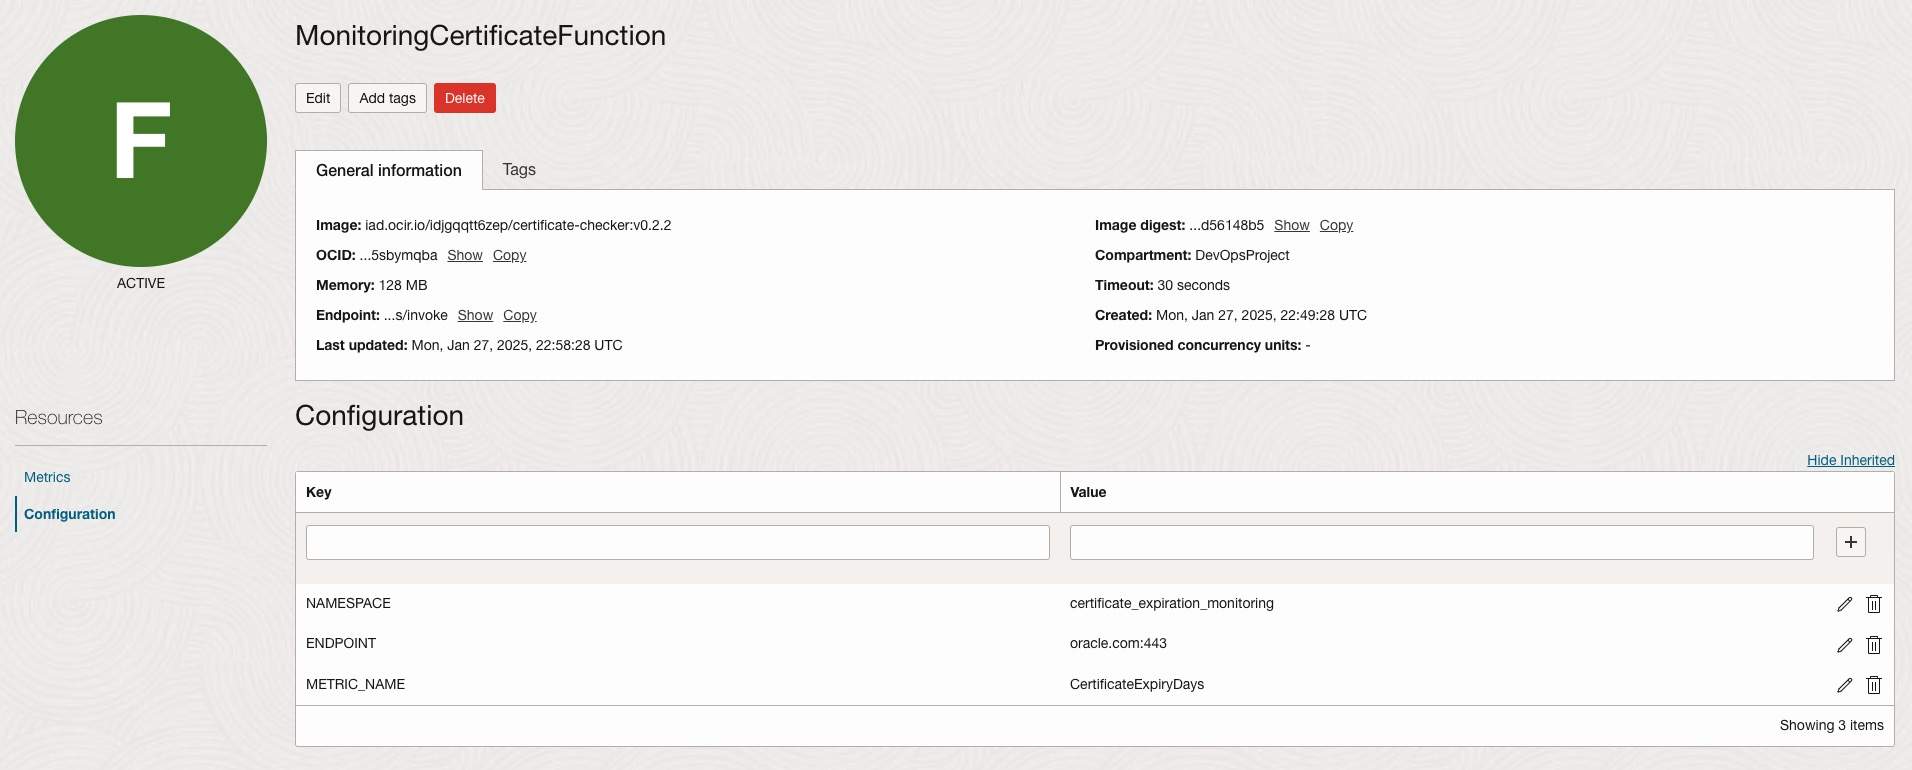
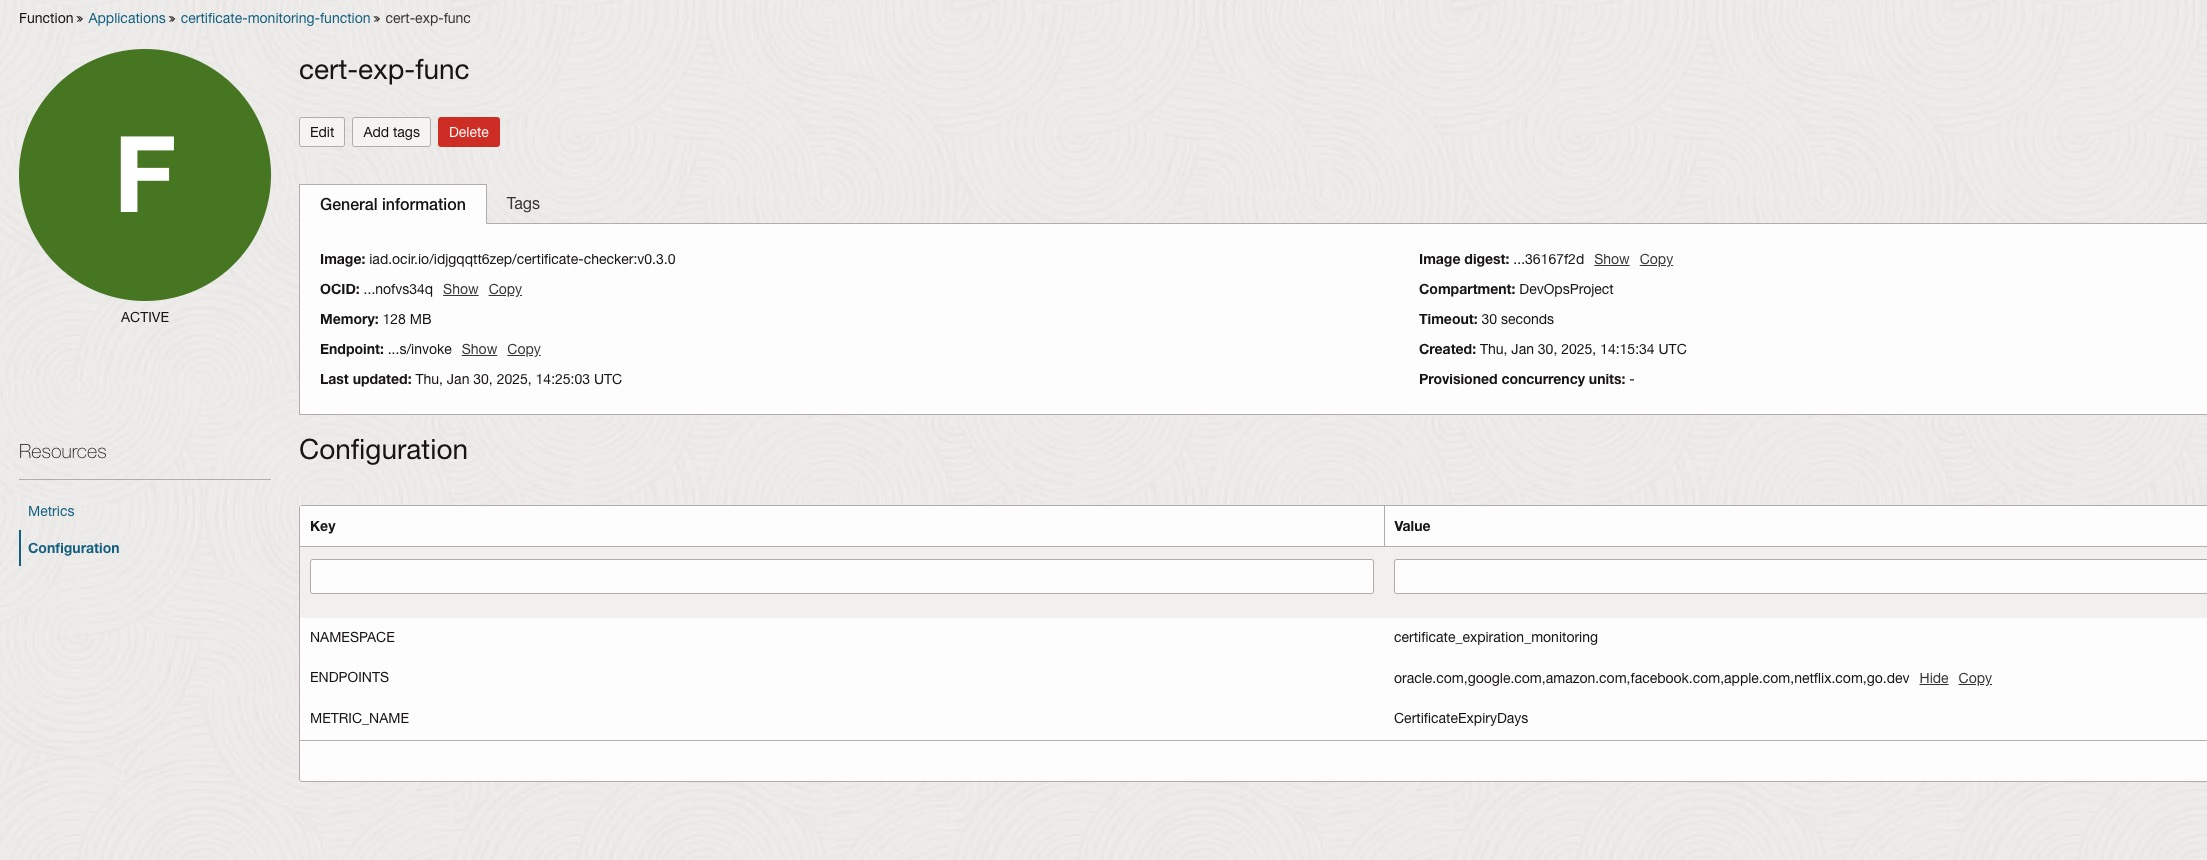
Add TLS dialing timeout and implement goroutines for concurrent endpoint processing

diff --git a/main.go b/main.go
@@ -18,63 +18,57 @@ import (
 	"time"
 )
 
-// getCompartmentID retrieves the OCI Compartment ID associated with the current Function context.
-func getCompartmentID(ctx context.Context) (string, error) {
-	provider, err := auth.ResourcePrincipalConfigurationProvider()
-	if err != nil {
-		return "", fmt.Errorf("failed to create Resource Principal provider: %v", err)
-	}
-	functionsClient, err := functions.NewFunctionsManagementClientWithConfigurationProvider(provider)
-	if err != nil {
-		return "", fmt.Errorf("failed to create Functions Management client: %v", err)
-	}
-
-	functionOCID := os.Getenv("FN_FN_ID")
-	if functionOCID == "" {
-		return "", fmt.Errorf("FN_FN_ID is not set in the environment")
-	}
-
-	request := functions.GetFunctionRequest{
-		FunctionId: &functionOCID,
-	}
-	response, err := functionsClient.GetFunction(ctx, request)
-	if err != nil {
-		return "", fmt.Errorf("failed to get function details: %v", err)
-	}
-
-	return *response.CompartmentId, nil
+type Result struct {
+	Endpoint      string
+	DaysRemaining int
+	Err           error
 }
 
-// GetDaysRemaining calculates the days remaining for an endpoint until its TLS certificate expires.
-func GetDaysRemaining(ctx context.Context, endpoint string) (int, error) {
-	parts := strings.Split(endpoint, ":")
-	if len(parts) != 2 {
-		return 0, fmt.Errorf("invalid endpoint format, expected hostname:port")
-	}
+// GetDaysRemaining calculates the days remaining for an endpoint until its TLS certificate expires using a Result struct.
+func GetDaysRemaining(ctx context.Context, endpoint string) Result {
+	resultChan := make(chan Result, 1)
 
-	// TLS Dial with timeout
-	conn, err := tls.DialWithDialer(&net.Dialer{
-		Timeout: 5 * time.Second, // Timeout for connection
-	}, "tcp", endpoint, &tls.Config{
-		InsecureSkipVerify: true,
-	})
-	if err != nil {
-		return 0, fmt.Errorf("failed to connect to '%s': %v", endpoint, err)
-	}
-	defer conn.Close()
+	// Perform TLS operations in a Goroutine
+	go func() {
+		parts := strings.Split(endpoint, ":")
+		if len(parts) != 2 {
+			resultChan <- Result{Endpoint: endpoint, Err: fmt.Errorf("invalid endpoint format, expected hostname:port")}
+			return
+		}
 
-	certs := conn.ConnectionState().PeerCertificates
-	if len(certs) == 0 {
-		return 0, fmt.Errorf("no certificate found for endpoint '%s'", endpoint)
-	}
-	cert := certs[0]
+		conn, err := tls.DialWithDialer(&net.Dialer{
+			Timeout: 10 * time.Second, // add a TLS dial timeout
+		}, "tcp", endpoint, &tls.Config{
+			InsecureSkipVerify: true,
+		})
+		if err != nil {
+			resultChan <- Result{Endpoint: endpoint, Err: fmt.Errorf("failed to connect to '%s': %v", endpoint, err)}
+			return
+		}
+		defer conn.Close()
 
-	// Calculate days remaining until certificate expiration
-	daysRemaining := int(time.Until(cert.NotAfter).Hours() / 24)
-	return daysRemaining, nil
+		certs := conn.ConnectionState().PeerCertificates
+		if len(certs) == 0 {
+			resultChan <- Result{Endpoint: endpoint, Err: fmt.Errorf("no certificate found for endpoint '%s'", endpoint)}
+			return
+		}
+
+		cert := certs[0]
+		daysRemaining := int(time.Until(cert.NotAfter).Hours() / 24)
+		resultChan <- Result{Endpoint: endpoint, DaysRemaining: daysRemaining}
+	}()
+
+	select {
+	case <-ctx.Done():
+		return Result{
+			Endpoint: endpoint,
+			Err:      fmt.Errorf("timeout while processing endpoint '%s'", endpoint),
+		}
+	case result := <-resultChan:
+		return result
+	}
 }
 
-// createMonitoringClient initializes and returns an OCI MonitoringClient using a Resource Principal configuration provider.
 func createMonitoringClient() (monitoring.MonitoringClient, error) {
 	provider, err := auth.ResourcePrincipalConfigurationProvider()
 	if err != nil {
@@ -90,7 +84,6 @@ func createMonitoringClient() (monitoring.MonitoringClient, error) {
 	return client, nil
 }
 
-// publishMetricData sends metric data to the OCI Monitoring service for the given resource.
 func publishMetricData(client monitoring.MonitoringClient, namespace, compartmentID, metricName, resourceID string, value float64) error {
 	timestamp := common.SDKTime{Time: time.Now().UTC()}
 	metricData := monitoring.MetricDataDetails{
@@ -125,76 +118,102 @@ func publishMetricData(client monitoring.MonitoringClient, namespace, compartmen
 	return nil
 }
 
+func getCompartmentID(ctx context.Context) (string, error) {
+	provider, err := auth.ResourcePrincipalConfigurationProvider()
+	if err != nil {
+		return "", fmt.Errorf("failed to create Resource Principal provider: %v", err)
+	}
+	functionsClient, err := functions.NewFunctionsManagementClientWithConfigurationProvider(provider)
+	if err != nil {
+		return "", fmt.Errorf("failed to create Functions Management client: %v", err)
+	}
+
+	functionOCID := os.Getenv("FN_FN_ID")
+	if functionOCID == "" {
+		return "", fmt.Errorf("FN_FN_ID is not set in the environment")
+	}
+
+	request := functions.GetFunctionRequest{
+		FunctionId: &functionOCID,
+	}
+	response, err := functionsClient.GetFunction(ctx, request)
+	if err != nil {
+		return "", fmt.Errorf("failed to get function details: %v", err)
+	}
+
+	return *response.CompartmentId, nil
+}
+
 func main() {
 	fdk.Handle(fdk.HandlerFunc(func(ctx context.Context, in io.Reader, out io.Writer) {
-		endpoints := os.Getenv("ENDPOINT")
+		// Read environment variables
+		endpoints := os.Getenv("ENDPOINTS")
 		namespace := os.Getenv("NAMESPACE")
 		metricName := os.Getenv("METRIC_NAME")
 
 		if endpoints == "" || namespace == "" || metricName == "" {
 			log.Fatalf("One or more required environment variables are missing (ENDPOINT, NAMESPACE, METRIC_NAME)")
-			return
 		}
 
+		// Initialize OCI monitoring client
 		client, err := createMonitoringClient()
 		if err != nil {
 			log.Printf("Failed to create monitoring client: %v", err)
 			return
 		}
 
+		// Retrieve compartment ID (OCI context dependency)
 		compartmentID, err := getCompartmentID(ctx)
 		if err != nil {
 			log.Printf("Failed to retrieve compartment ID: %v", err)
 			return
 		}
 
+		// Split endpoints into a slice
 		endpointList := strings.Split(endpoints, ",")
-		for i, endpoint := range endpointList {
-			if !strings.Contains(endpoint, ":") {
-				endpointList[i] = endpoint + ":443" // Default to port 443
-			}
-		}
-
+		results := make(chan Result, len(endpointList)) // Channel to collect results
 		var wg sync.WaitGroup
-		results := make(chan string, len(endpointList)) // Channel to collect results
 
-		// Process each endpoint concurrently with timeout
+		// Process each endpoint concurrently
 		for _, endpoint := range endpointList {
+			if !strings.Contains(endpoint, ":") {
+				endpoint = endpoint + ":443" // Ensure default port 443
+			}
+
 			wg.Add(1)
 			go func(endpoint string) {
 				defer wg.Done()
 
-				// Set up timeout context for each endpoint
+				// Set up timeout context per endpoint
 				ctx, cancel := context.WithTimeout(context.Background(), 10*time.Second)
 				defer cancel()
 
-				daysRemaining, err := GetDaysRemaining(ctx, endpoint)
-				if err != nil {
-					results <- fmt.Sprintf("Error for %s: %v", endpoint, err)
-					return
-				}
-
-				// Publish the metric to Monitoring
-				err = publishMetricData(client, namespace, compartmentID, metricName, endpoint, float64(daysRemaining))
-				if err != nil {
-					results <- fmt.Sprintf("Error publishing metric for %s: %v", endpoint, err)
-					return
-				}
-
-				results <- fmt.Sprintf("Successfully processed '%s' with %d days remaining", endpoint, daysRemaining)
+				// Get days remaining and send the Result to the channel
+				result := GetDaysRemaining(ctx, endpoint)
+				results <- result
 			}(endpoint)
 		}
 
-		// Wait for all goroutines to finish
+		// Close results channel after all workers finish
 		go func() {
 			wg.Wait()
 			close(results)
 		}()
 
-		// Write results to the FDK output
+		// Collect and log results
 		for result := range results {
-			log.Println(result)
-			_, _ = fmt.Fprintln(out, result)
+			if result.Err != nil {
+				log.Printf("Failed to process endpoint: %s, Error: %v", result.Endpoint, result.Err)
+				_, _ = fmt.Fprintf(out, "Failed to process endpoint: %s, Error: %v\n", result.Endpoint, result.Err)
+			} else {
+				log.Printf("Days remaining for %s: %d days", result.Endpoint, result.DaysRemaining)
+				_, _ = fmt.Fprintf(out, "Successfully processed endpoint: %s, Days Remaining: %d\n", result.Endpoint, result.DaysRemaining)
+				// Optionally publish the metric
+				err = publishMetricData(client, namespace, compartmentID, metricName, result.Endpoint, float64(result.DaysRemaining))
+				if err != nil {
+					log.Printf("Failed to publish metric for %s: %v", result.Endpoint, err)
+				}
+			}
 		}
 	}))
 }
